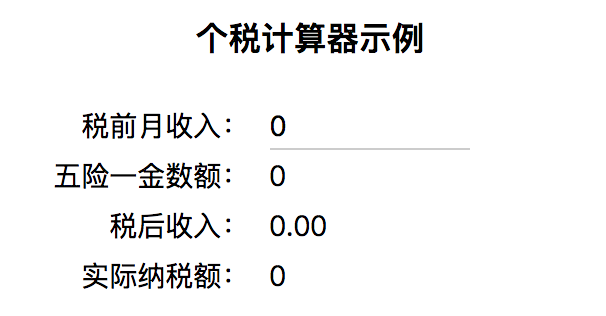
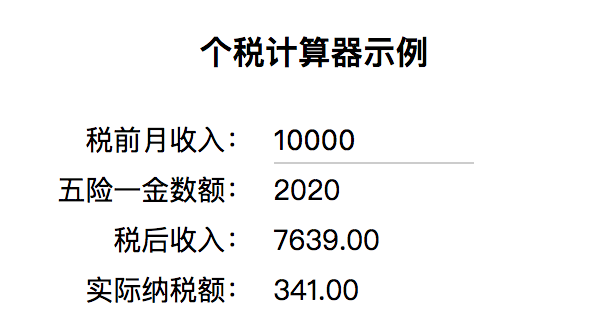
add code of vue components

diff --git a/examples/vue-demo/tax-calc/index.js b/examples/vue-demo/tax-calc/index.js
@@ -1,16 +1,3 @@
-const app = new Vue({
-  el: '#app',
-  data: {
-    income: 0,
-  },
-  computed: {
-    result: function() {
-      return taxCalculator({income: this.income})
-    }
-  }
-});
-
-
 /**
  * 中国个税计算算法
  * 算法参考：http://www.gerensuodeshui.cn/
@@ -58,3 +45,53 @@ function taxCalculator(options = {
 
   return {income, profit, real_income, tax};
 }
+
+
+/**
+ * 定义一个用于设置个税起征点的组件
+ */
+Vue.component('user-settings', {
+  template: `
+    <div>
+      <label>选择个税起征点</label>
+      <select v-on:change="onSelectChange">
+        <option v-for="item in list">{{ item }}</option>
+      </select>
+    </div>`,
+  data: function () {
+    return {
+      base: 3500,
+      list: [3500, 4000, 5000, 7000, 10000],
+    }
+  },
+  methods: {
+    onSelectChange: function(event) {
+      var target = event.target;
+      var value  = Number(target.value);
+      this.$emit('settings', {
+        base: value,
+      });
+    }
+  }
+});
+
+
+// Vue app
+const app = new Vue({
+  el: '#app',
+  data: {
+    income: 0,
+    base: 3500,
+  },
+  computed: {
+    result: function() {
+      return taxCalculator({income: this.income, base: this.base});
+    }
+  },
+  methods: {
+    onSettingsChange: function(settings) {
+      this.base = settings.base;
+    }
+  }
+});
+

diff --git a/examples/vue-demo/tax-calc/index.html b/examples/vue-demo/tax-calc/index.html
@@ -2,42 +2,7 @@
 <html>
 <head>
   <title>个税计算器示例</title>
-  <style type="text/css">
-    * {
-      box-sizing: border-box;
-    }
-
-    body {
-      font-size: 14px;
-      line-height: 1.8;
-      font-family: sans-serif;
-    }
-
-    input {
-      display: inline-block;
-      width: 100px;
-      padding: 3px 0;
-      border: none;
-      border-bottom: 1px solid #ccc;
-      font-size: 14px;
-    }
-
-    input:focus {
-      outline: none;
-      border-color: #aaa;
-    }
-
-    label {
-      display: inline-block;
-      width: 40%;
-      margin-right: 10px;
-      text-align: right;
-    }
-
-    h3 {
-      text-align: center;
-    }
-  </style>
+  <link rel="stylesheet" type="text/css" href="./index.css">
   <meta charset="utf-8">
   <meta name="viewport" content="initial-scale=1, max-scale=1, user-scalable=no">
   <!-- 开发环境版本，包含了用帮助的命令行警告 -->
@@ -50,6 +15,8 @@
     <div><label>五险一金数额： </label>{{ result.profit }}</div>
     <div><label>税后收入：</label>{{ result.real_income }}</div>
     <div><label>实际纳税额：</label>{{ result.tax }}</div>
+    <hr />
+    <user-settings v-on:settings="onSettingsChange"></user-settings>
   </div>
   <script type="text/javascript" src="./index.js"></script>
 </body>

diff --git a/examples/vue-demo/tax-calc/index.css b/examples/vue-demo/tax-calc/index.css
@@ -1,0 +1,45 @@
+* {
+  box-sizing: border-box;
+}
+
+body {
+  font-size: 14px;
+  line-height: 1.8;
+  font-family: sans-serif;
+}
+
+input {
+  display: inline-block;
+  width: 100px;
+  padding: 3px 0;
+  border: none;
+  border-bottom: 1px solid #ccc;
+  font-size: 14px;
+}
+
+input:focus {
+  outline: none;
+  border-color: #aaa;
+}
+
+label {
+  display: inline-block;
+  width: 40%;
+  margin-right: 10px;
+  text-align: right;
+}
+
+h3 {
+  text-align: center;
+}
+
+select {
+  display: inline-block;
+  height: 30px;
+  line-height: 30px;
+  border: 1px solid #eee;
+}
+
+select:focus {
+  outline: none;
+}

diff --git a/src/part-3/chapter-6-vue/1-basic-demo.md b/src/part-3/chapter-6-vue/1-basic-demo.md
@@ -1,12 +1,12 @@
 # 基本使用示例
 
-在介绍 Vue 的工作原理之前，我们先通过两个示例，分别看一下 Vue 的属性变化侦测及组件化开发的基本使用方式。
+在介绍 Vue 的工作原理之前，我们先通过一个个税计算器示例，由简到繁地演进，以熟悉 Vue 的属性变化侦测及组件化开发的基本使用方式。
 
-## 示例一：个税计算器
+## 第一步：自动更新视图
 
 我们期望实现一个可以根据用户输入的税前收入，来实时计算纳税额、税后到手金额的小工具。效果示意图如下：
 
-<img src="./tax-calculator-2.png" style="width: 40%; border: 1px solid #ddd;" class="round">
+<img src="./tax-calculator.png" style="width: 40%; border: 1px solid #ddd;" class="round">
 
 简便起见，我们直接在 HTML 文件中通过 `<script>` 标签从 CDN 服务商引入 `vue.js`：
 
@@ -81,5 +81,77 @@ const app = new Vue({
 ```
 
 
-## 示例二：可复用的表格组件
+## 第二步：添加子组件并与父组件通信
+
+2018 年两会期间，关于提升个税起征点的议题成为社会讨论的焦点之一。我们在第一步里使用的 3500 元起征点，是 2011 年 9 月 1 日起实施的。我们可以在第一步的基础上，添加一个功能，让用户可以设置计算个税的起征点数值。
+
+简便起见，我们直接使用 `Vue.component` 方法在全局定义一个名为 `user-settings` 的子组件。
+
+```
+/**
+ * 定义一个用于设置个税起征点的组件
+ */
+Vue.component('user-settings', {
+  template: `
+    <div>
+      <label>选择个税起征点</label>
+      <select v-on:change="onSelectChange">
+        <option v-for="item in list">{{ item }}</option>
+      </select>
+    </div>`,
+  data: function () {
+    return {
+      base: 3500,
+      // 可选的个税起征点数值
+      list: [3500, 4000, 5000, 7000, 10000],
+    }
+  },
+  methods: {
+    // 子组件上的事件
+    onSelectChange: function(event) {
+      var target = event.target;
+      var value  = Number(target.value);
+      this.$emit('settings', {
+        base: value,
+      });
+    }
+  }
+});
+```
+
+在 HTML 中，可以像 Web Components 规范约定的那样直接使用标签名嵌入子组件，使用 `v-on:settings` 监听子组件发布的名为 `settings` 事件：
+
+```html
+<div id="app">
+  <!-- 省略其他代码 -->
+  <user-settings v-on:settings="onSettingsChange"></user-settings>
+</div>
+```
+
+最外层的 Vue APP 则改写为：
+
+```javascript
+// Vue app
+const app = new Vue({
+  el: '#app',
+  data: {
+    income: 0,
+    base: 3500,
+  },
+  computed: {
+    result: function() {
+      return taxCalculator({income: this.income, base: this.base});
+    }
+  },
+  methods: {
+    onSettingsChange: function(settings) {
+      this.base = settings.base;
+    }
+  }
+});
+```
+
+调整之后的效果如下图所示，可以看到，对于税前收入 1 万元的劳动者来说，个税起征点如果从 3500 元提高到 5000 元，那么可以减少 43% 的纳税额。
+
+<img src="./tax-calculator-2.png" style="width: 40%; border: 1px solid #ddd;" class="round">
 

diff --git a/src/summary.md b/src/summary.md
@@ -50,6 +50,7 @@
     * [React与函数式编程](part-3/chapter-5-react/5-react-and-fp.md)
   * [Vue](part-3/chapter-6-vue/index.md)
     * [基本使用示例](part-3/chapter-6-vue/1-basic-demo.md)
+    * [Vue 的关键概念与原理](part-3/chapter-6-vue/2-vue-concepts-and-priciples.md)
   * [微信小程序组件化开发实践](part-3/chapter-7-miniprogram/index.md)
 * [第四部分-前端开发中的常见话题](part-4/index.md)
   * [标准库](part-4/01-标准库.md)

diff --git a/src/part-3/chapter-6-vue/2-vue-concepts-and-priciples.md b/src/part-3/chapter-6-vue/2-vue-concepts-and-priciples.md
@@ -1,0 +1,1 @@
+# Vue 的关键概念与原理
